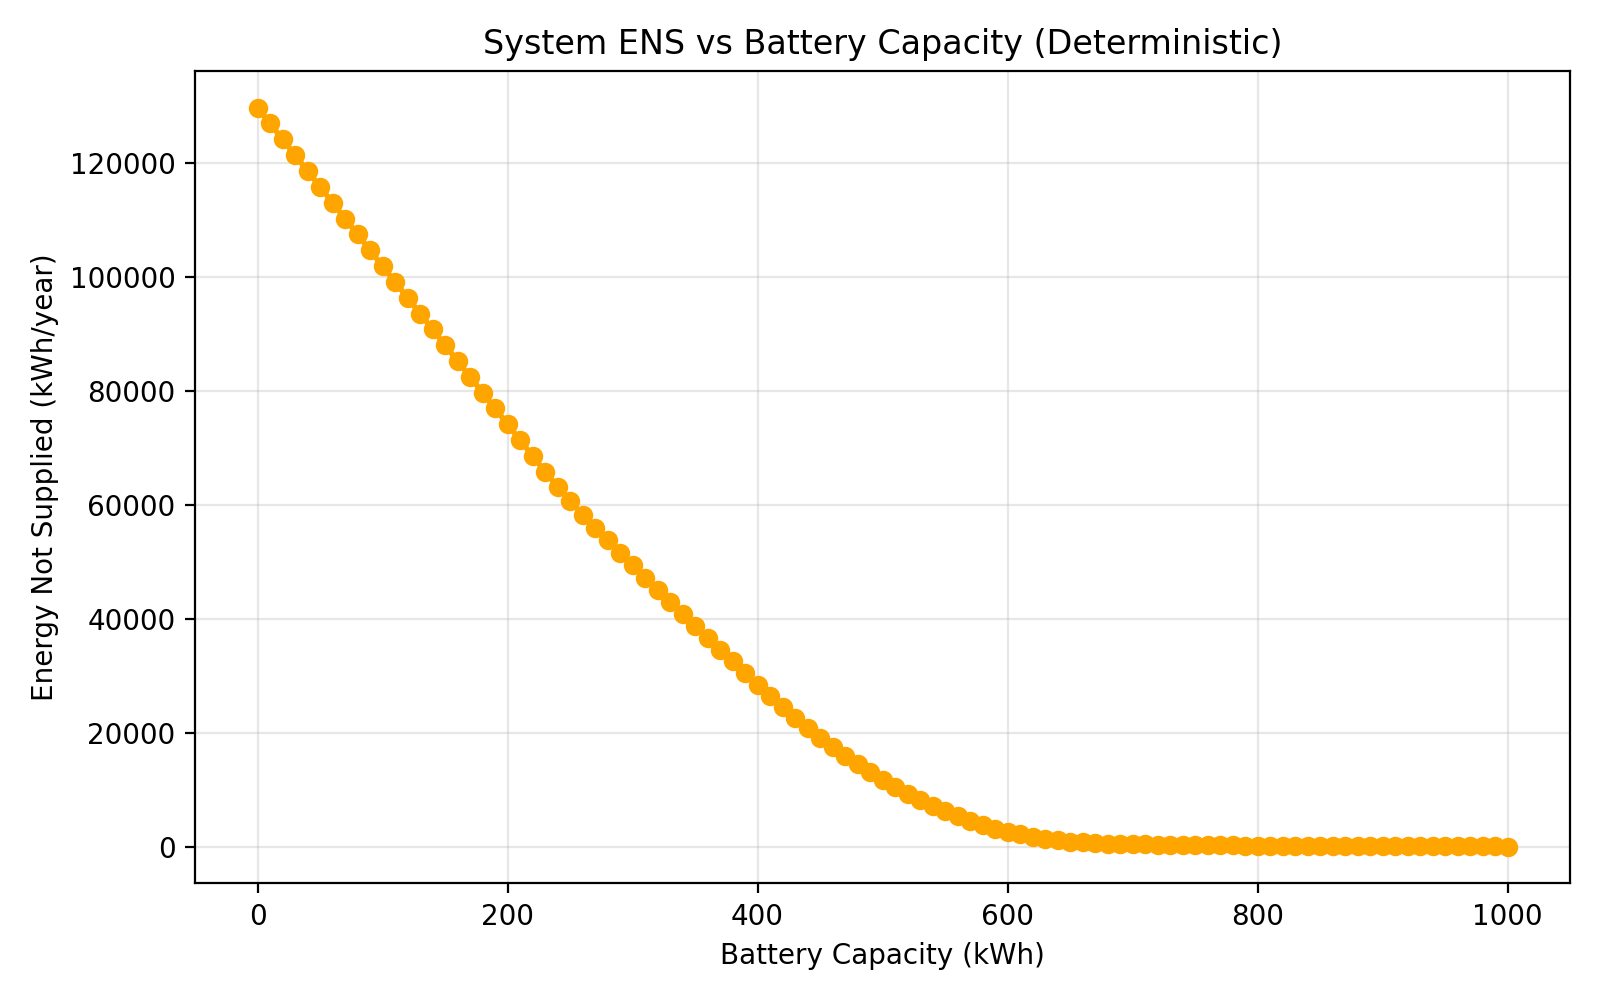
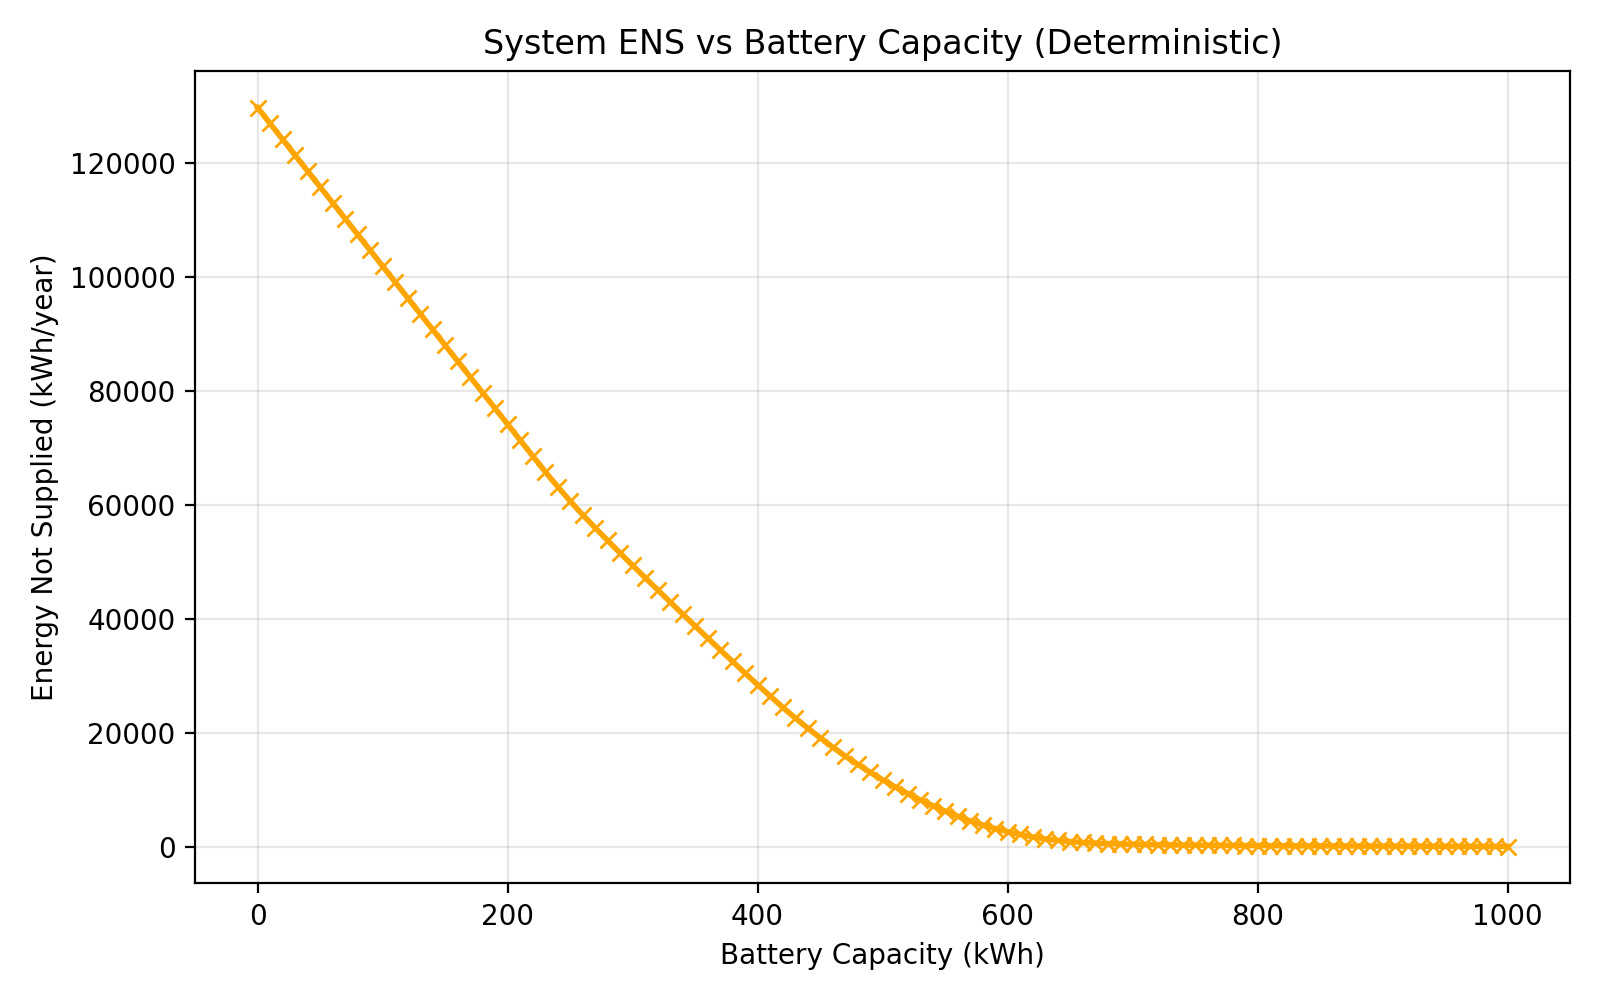
dot to x

diff --git a/pv_battery_sizing.py b/pv_battery_sizing.py
@@ -232,9 +232,9 @@ def main():
     # ===== 绘图：对比两种情景 =====
     plt.figure(figsize=(10, 6))
     plt.plot(result_df_det["battery_kwh"], result_df_det["reliability"], 
-             marker="o", linewidth=2, label="Deterministic", color="blue")
+             marker="x", markersize=6, linewidth=2, label="Deterministic", color="blue")
     plt.plot(result_df_mc["battery_kwh"], result_df_mc["reliability_mean"], 
-             marker="s", linewidth=2, label="MC Mean", color="red")
+             marker="x", markersize=6, linewidth=2, label="MC Mean", color="red")
     plt.fill_between(result_df_mc["battery_kwh"], 
                      result_df_mc["reliability_p05"], 
                      result_df_mc["reliability_p95"],
@@ -255,7 +255,7 @@ def main():
 
     # ===== 确定性情景的旧图 =====
     plt.figure(figsize=(8, 5))
-    plt.plot(result_df_det["battery_kwh"], result_df_det["reliability"], marker="o", linewidth=2)
+    plt.plot(result_df_det["battery_kwh"], result_df_det["reliability"], marker="x", markersize=6, linewidth=2)
     plt.axhline(R_TARGET, linestyle="--", color="red", label=f"Target ({R_TARGET:.0%})")
     if not np.isnan(b_star_det):
         plt.axvline(b_star_det, linestyle=":", color="green", label=f"B* = {b_star_det:,.0f} kWh")
@@ -269,7 +269,7 @@ def main():
     plt.close()
 
     plt.figure(figsize=(8, 5))
-    plt.plot(result_df_det["battery_kwh"], result_df_det["ens_kwh"], marker="o", color="orange", linewidth=2)
+    plt.plot(result_df_det["battery_kwh"], result_df_det["ens_kwh"], marker="x", markersize=6, color="orange", linewidth=2)
     plt.xlabel("Battery Capacity (kWh)")
     plt.ylabel("Energy Not Supplied (kWh/year)")
     plt.title("System ENS vs Battery Capacity (Deterministic)")
